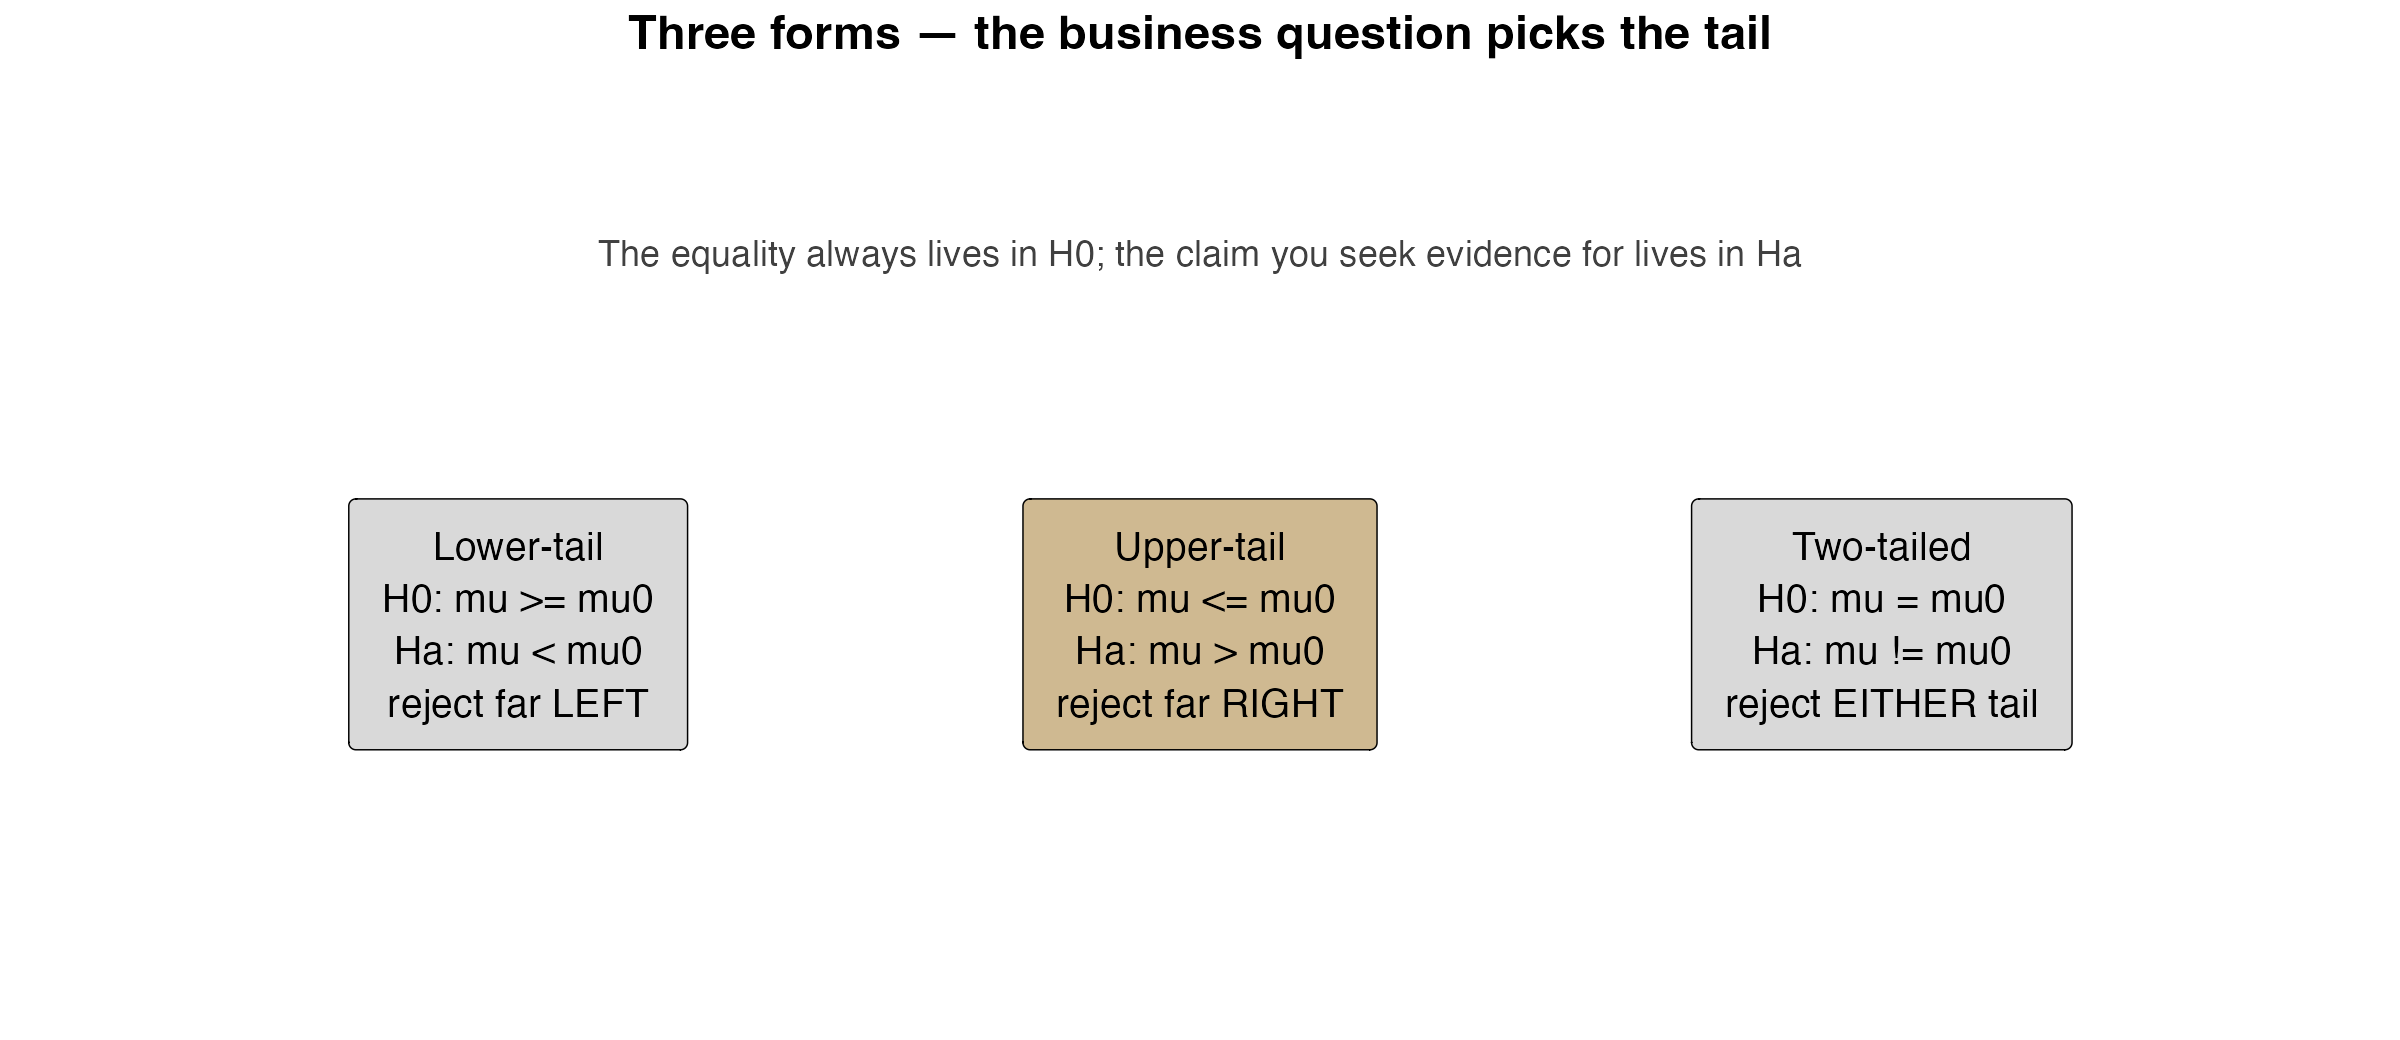
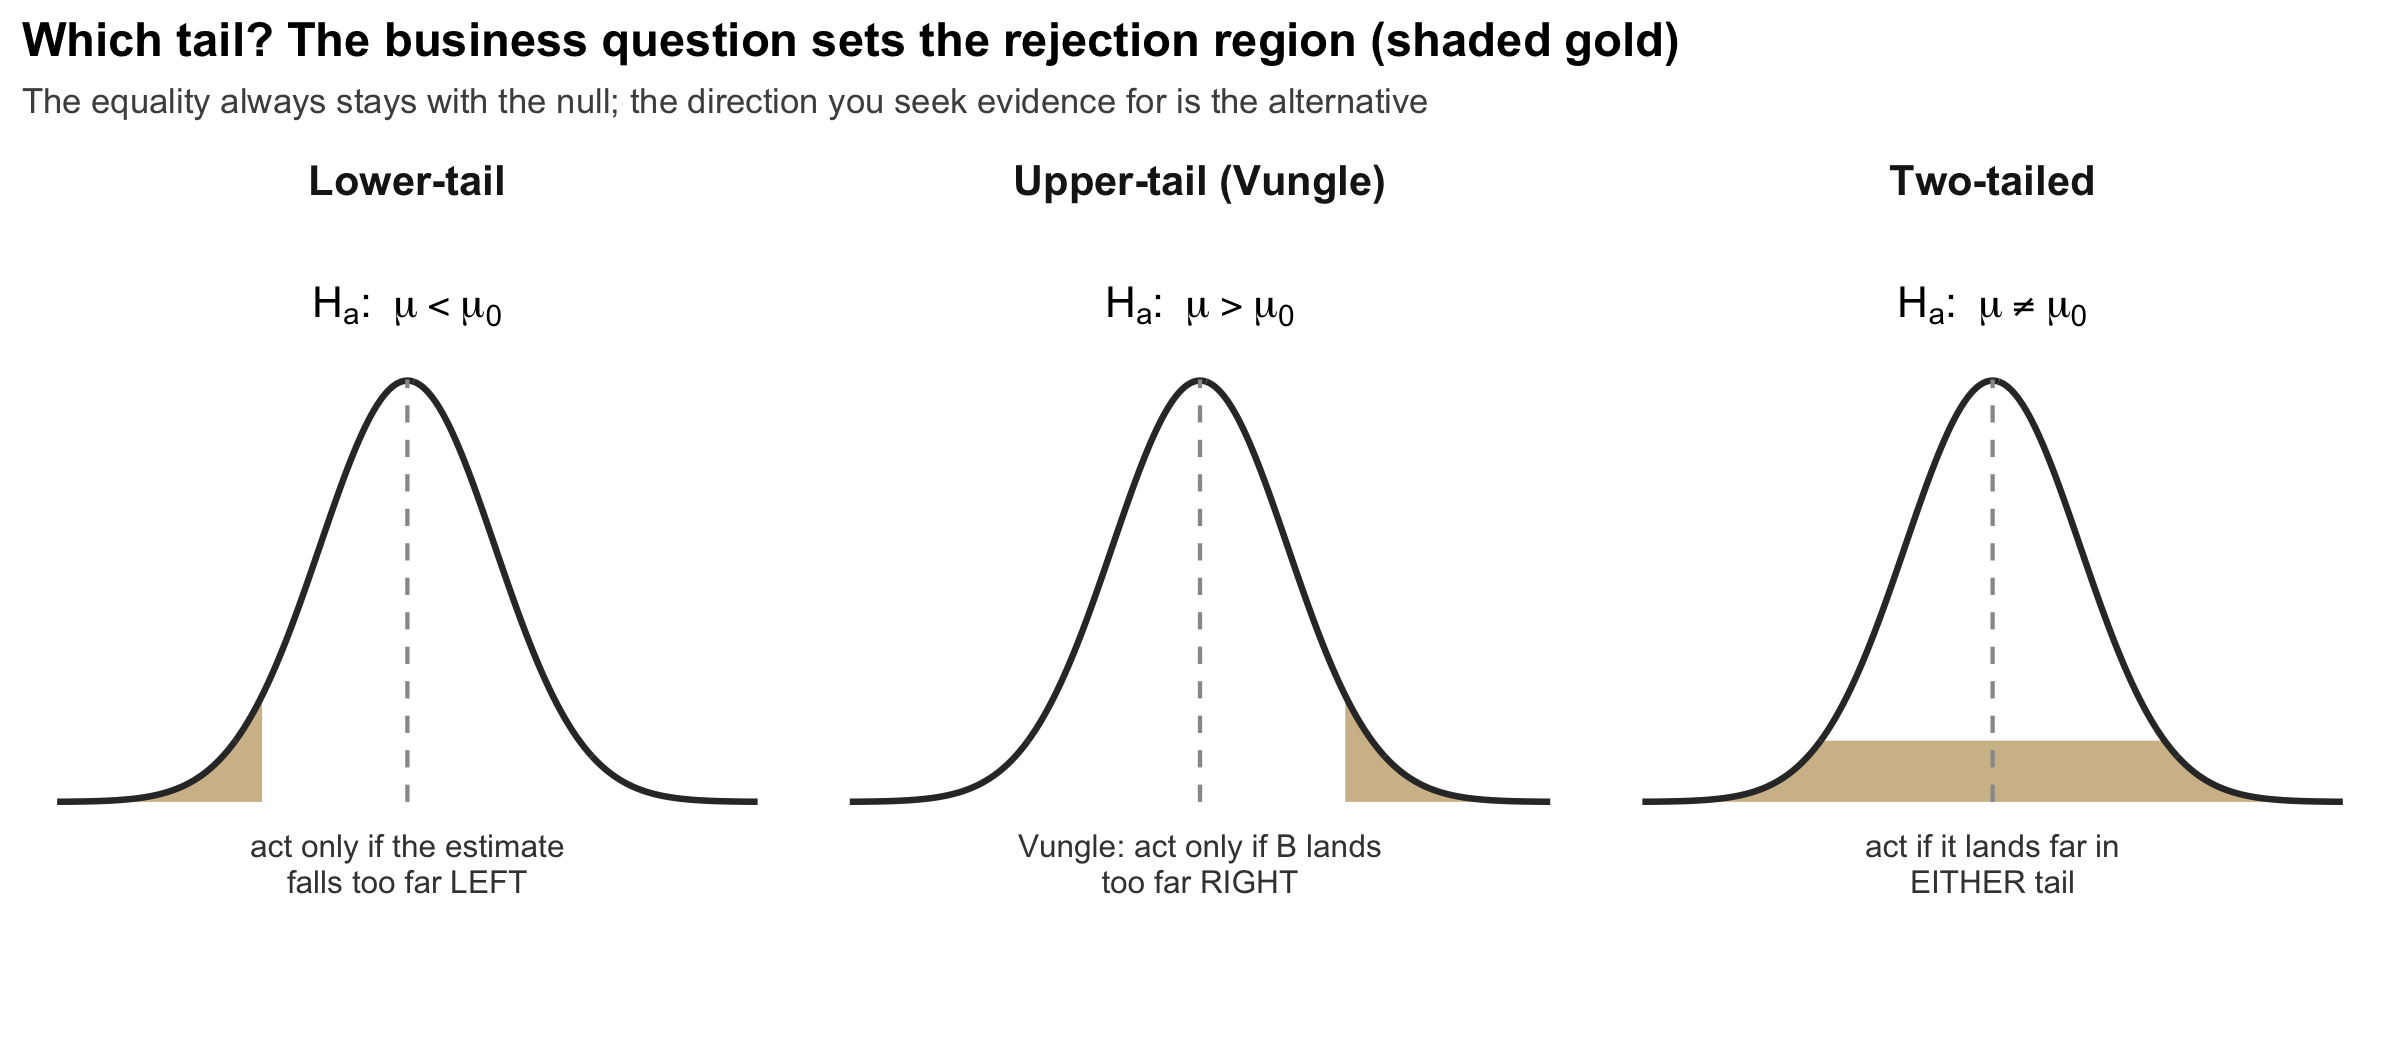
T08: redesign forms viz + add α/β two-worlds figure + drop textbook anchors for Vungle-only
- Slide 11 (Three Forms): replace the three text boxes with three shaded-tail
  sampling-distribution curves (lower / upper-Vungle / two-tailed) so students see
  which tail the business question selects; fix the em-dash title; SBE notation (Hₐ, μ₀, ≠).
- Slide 15 (You Control α; β Follows): add the two-worlds picture (null at the $3.30
  benchmark, alternative at B's observed $3.46, one cutoff; α=.05, β≈.19, power≈.81) in a
  two-column layout, and tighten the text around it.
- Remove both textbook anchor examples (Heathrow mean, Pine Creek proportion); replace each
  with a compact Vungle-only five-step roadmap slide and teach both tests directly on the
  spine case; retitle the two spine slides (drop "Now the Spine Case"). Single-case, symmetric.
- Drop the orphan Heathrow_t / PineCreek_z sheets from the published student workbook.

diff --git a/docs/lecture_slides/08_chapter_hypothesis_tests/08_chapter_hypothesis_tests.html b/docs/lecture_slides/08_chapter_hypothesis_tests/08_chapter_hypothesis_tests.html
@@ -327,13 +327,25 @@ H_0: \mu \leq 3.30 \qquad \text{vs.} \qquad H_a: \mu &gt; 3.30
 </section>
 <section id="you-control-alpha-beta-follows" class="slide level2 center">
 <h2>You Control <span class="math inline">\(\alpha\)</span>; <span class="math inline">\(\beta\)</span> Follows</h2>
-<p><br></p>
+<div class="columns">
+<div class="column" style="width:55%;">
+<div class="cell" data-layout-align="center">
+<div class="cell-output-display">
+<div class="quarto-figure quarto-figure-center">
+<figure>
+<p><img data-src="figs/alpha_beta_tradeoff_vungle.png" class="quarto-figure quarto-figure-center" style="width:100.0%"></p>
+</figure>
+</div>
+</div>
+</div>
+</div><div class="column" style="width:45%;">
 <ul>
-<li class="fragment"><p>The <strong>level of significance</strong> <span class="math inline">\(\alpha\)</span> = the probability of a <strong>Type I error</strong> you are willing to tolerate. You set it <strong>before</strong> seeing the data; usually <span class="math inline">\(\alpha = 0.05\)</span> (sometimes <span class="math inline">\(0.01\)</span> or <span class="math inline">\(0.10\)</span>).</p></li>
-<li class="fragment"><p><span class="math inline">\(\beta\)</span> = the probability of a <strong>Type II error</strong>. You do <strong>not</strong> set it directly; it follows from <span class="math inline">\(\alpha\)</span>, the sample size, and how far the truth is from <span class="math inline">\(H_0\)</span>.</p></li>
-<li class="fragment"><p><strong>The trade-off:</strong> for a fixed sample, lowering <span class="math inline">\(\alpha\)</span> (fewer false alarms) <strong>raises</strong> <span class="math inline">\(\beta\)</span> (more missed effects). The only way to shrink both is a <strong>larger sample</strong>.</p></li>
-<li class="fragment"><p><strong>Language rule:</strong> when the evidence is weak we say <em>“fail to reject <span class="math inline">\(H_0\)</span>,”</em> never <em>“accept <span class="math inline">\(H_0\)</span>.”</em> Absence of proof is not proof of absence; we just did not gather enough evidence to overturn the skeptic.</p></li>
+<li class="fragment"><p><span class="math inline">\(\alpha\)</span> = the <strong>Type I</strong> risk (a false “fund it”) you agree to tolerate. You <strong>set it before</strong> the data; usually <span class="math inline">\(0.05\)</span>.</p></li>
+<li class="fragment"><p><span class="math inline">\(\beta\)</span> = the <strong>Type II</strong> risk (miss a real winner). You do <strong>not</strong> set it: it follows from <span class="math inline">\(\alpha\)</span>, the sample size, and how far the truth sits from <span class="math inline">\(H_0\)</span>.</p></li>
+<li class="fragment"><p><strong>The trade-off:</strong> slide the cutoff right and <span class="math inline">\(\alpha\)</span> falls but <span class="math inline">\(\beta\)</span> climbs. At <span class="math inline">\(\alpha = 0.05\)</span> the picture leaves <span class="math inline">\(\beta \approx 0.19\)</span> (power <span class="math inline">\(\approx 0.81\)</span>); only a <strong>bigger sample</strong> shrinks both.</p></li>
+<li class="fragment"><p><strong>Language rule:</strong> weak evidence means <em>“fail to reject <span class="math inline">\(H_0\)</span>,”</em> never <em>“accept <span class="math inline">\(H_0\)</span>.”</em></p></li>
 </ul>
+</div></div>
 </section>
 <section id="why-the-asymmetry-matters-for-vungle" class="slide level2 center">
 <h2>Why the Asymmetry Matters for Vungle</h2>
@@ -375,7 +387,7 @@ H_0: \mu \leq 3.30 \qquad \text{vs.} \qquad H_a: \mu &gt; 3.30 \qquad \alpha = 0
 </div>
 <ul>
 <li class="fragment"><p><span class="math inline">\(\mu\)</span> = the <strong>true</strong> mean daily eRPM B would deliver across <em>all</em> future traffic; the 30 June days are our sample.</p></li>
-<li class="fragment"><p><strong>Today’s plan:</strong> demo the mechanics on a textbook airport-rating case, then a good analyst’s work on Vungle goes up for you to reproduce and stress-test.</p></li>
+<li class="fragment"><p><strong>Today’s plan:</strong> a good analyst runs the five-step test on B’s eRPM; you reproduce it, stress-test it, and make the funding call.</p></li>
 </ul>
 </section>
 <section id="how-every-class-runs" class="slide level2 center">
@@ -487,35 +499,22 @@ z = \frac{\bar{x} - \mu_0}{\sigma / \sqrt{n}}
 </div>
 </div>
 </section>
-<section id="anchor-example-heathrow-superior-service-rating" class="slide level2 center">
-<h2>Anchor Example: Heathrow Superior-Service Rating</h2>
-<p><br></p>
-<p>A travel magazine rates airports 0–10; an airport is labeled <strong>“superior service”</strong> only if its <strong>true mean</strong> rating exceeds <strong>7</strong>. A sample of <strong>60</strong> business travelers at London Heathrow gives <span class="math inline">\(\bar{x} = 7.25\)</span>, <span class="math inline">\(s = 1.052\)</span>.</p>
-<p><br></p>
-<ul>
-<li class="fragment">We want evidence that the mean <strong>exceeds 7</strong> <span class="math inline">\(\rightarrow\)</span> upper-tail, <span class="math inline">\(\sigma\)</span> unknown <span class="math inline">\(\rightarrow\)</span> one-sample <span class="math inline">\(t\)</span>.</li>
-</ul>
+<section id="the-five-step-test-on-bs-erpm" class="slide level2 center">
+<h2>The Five-Step Test, on B’s eRPM</h2>
+<p>We run <strong>one procedure</strong> every time. Here it is on B’s mean eRPM:</p>
+<ol type="1">
+<li class="fragment"><strong>Business context:</strong> fund B only if its true mean eRPM beats the $3.30 viability benchmark.</li>
+<li class="fragment"><strong>Hypotheses</strong> (upper-tail): <span class="math inline">\(H_0: \mu \leq 3.30\)</span> vs.&nbsp;<span class="math inline">\(H_a: \mu &gt; 3.30\)</span>, at <span class="math inline">\(\alpha = 0.05\)</span>.</li>
+<li class="fragment"><strong>Test statistic:</strong> <span class="math inline">\(\sigma\)</span> is unknown, so estimate it with <span class="math inline">\(s\)</span> and use a one-sample <span class="math inline">\(t\)</span>, <span class="math inline">\(df = n - 1\)</span>.</li>
+<li class="fragment"><strong>Decision:</strong> compare <span class="math inline">\(t\)</span> to its critical value, or the <span class="math inline">\(p\)</span>-value to <span class="math inline">\(\alpha\)</span>: two roads, one verdict.</li>
+<li class="fragment"><strong>Manager’s translation:</strong> turn the verdict back into the funding call.</li>
+</ol>
 <div class="fragment">
-<p><span class="math display">\[
-H_0: \mu \leq 7 \qquad H_a: \mu &gt; 7 \qquad \alpha = 0.05
-\]</span></p>
+<p>The next slides run these five steps on June’s 30 days, in Excel.</p>
 </div>
 </section>
-<section id="heathrow-the-five-steps" class="slide level2 center">
-<h2>Heathrow: the Five Steps</h2>
-<div class="r-fit-text">
-<p><strong>1. Business context.</strong> Classify the airport; only a true mean above 7 earns the “superior service” badge.</p>
-<p><strong>2. Hypotheses</strong> (upper-tail): <span class="math inline">\(H_0: \mu \leq 7\)</span> vs.&nbsp;<span class="math inline">\(H_a: \mu &gt; 7\)</span>, <span class="math inline">\(\alpha = 0.05\)</span>.</p>
-<p><strong>3. Test statistic.</strong></p>
-<p><span class="math display">\[
-t = \frac{\bar{x} - \mu_0}{s/\sqrt{n}} = \frac{7.25 - 7}{1.052/\sqrt{60}} = \frac{0.25}{0.1358} = 1.84, \qquad df = 59
-\]</span></p>
-<p><strong>4. Decision.</strong> Critical value: <span class="math inline">\(t_{0.05,\,59} = 1.671\)</span>; since <span class="math inline">\(1.84 \geq 1.671\)</span> <span class="math inline">\(\rightarrow\)</span> <strong>reject <span class="math inline">\(H_0\)</span></strong>. Equivalently, <span class="math inline">\(p\text{-value} = 0.035 \leq 0.05\)</span> <span class="math inline">\(\rightarrow\)</span> <strong>reject <span class="math inline">\(H_0\)</span></strong>.</p>
-<p><strong>5. Manager’s Translation.</strong> <em>The data give us at least 95% confidence that Heathrow’s mean traveler rating tops 7, so classify it “superior service.” The evidence is strong but not overwhelming (<span class="math inline">\(p \approx 0.035\)</span>).</em></p>
-</div>
-</section>
-<section id="now-the-spine-case-bs-erpm-in-numbers" class="slide level2 center">
-<h2>Now the Spine Case: B’s eRPM in Numbers</h2>
+<section id="the-data-bs-erpm-against-the-benchmark" class="slide level2 center">
+<h2>The Data: B’s eRPM Against the Benchmark</h2>
 
 <img data-src="figs/erpm_B_vs_benchmark.png" class="quarto-figure quarto-figure-center r-stretch" style="width:80.0%"><ul>
 <li>23 of 30 days clear the $3.30 line, and the sample mean sits well above it, but a noisy 30-day sample <em>could</em> land here even if the true mean were exactly $3.30. The test settles it.</li>
@@ -821,40 +820,22 @@ z = \frac{\bar{p} - p_0}{\sigma_{\bar{p}}}
 <li class="fragment"><p>For a two-tailed test, <strong>double</strong> the single-tail area to get the <span class="math inline">\(p\)</span>-value, and split <span class="math inline">\(\alpha\)</span> into <span class="math inline">\(\alpha/2\)</span> per tail for the two critical values.</p></li>
 </ul>
 </section>
-<section id="anchor-example-pine-creek-golf-course" class="slide level2 center">
-<h2>Anchor Example: Pine Creek Golf Course</h2>
-<p><br></p>
-<p>Last year <strong>20%</strong> of Pine Creek’s players were women. After a promotion to attract women golfers, the manager wants evidence the proportion <strong>increased</strong>. A sample of <strong>400</strong> players includes <strong>100</strong> women (<span class="math inline">\(\bar{p} = 0.25\)</span>), <span class="math inline">\(\alpha = 0.05\)</span>.</p>
+<section id="the-five-step-test-on-bs-conversion" class="slide level2 center">
+<h2>The Five-Step Test, on B’s Conversion</h2>
+<p>Same five steps as the mean test; only the standard error and the reference curve change:</p>
+<ol type="1">
+<li class="fragment"><strong>Business context:</strong> keep B only if its true conversion clears the 0.35% viability target.</li>
+<li class="fragment"><strong>Hypotheses</strong> (upper-tail): <span class="math inline">\(H_0: p \leq 0.0035\)</span> vs.&nbsp;<span class="math inline">\(H_a: p &gt; 0.0035\)</span>, at <span class="math inline">\(\alpha = 0.05\)</span>.</li>
+<li class="fragment"><strong>Test statistic:</strong> a <span class="math inline">\(z\)</span>, with the standard error built <strong>under <span class="math inline">\(H_0\)</span></strong> from <span class="math inline">\(p_0\)</span>, not <span class="math inline">\(\bar p\)</span>.</li>
+<li class="fragment"><strong>Decision:</strong> compare <span class="math inline">\(z\)</span> to its critical value, or the <span class="math inline">\(p\)</span>-value to <span class="math inline">\(\alpha\)</span>.</li>
+<li class="fragment"><strong>Manager’s translation:</strong> turn the verdict back into the keep-or-kill call.</li>
+</ol>
 <div class="fragment">
-<p><span class="math display">\[
-H_0: p \leq 0.20 \qquad H_a: p &gt; 0.20 \qquad \text{(upper-tail)}
-\]</span></p>
-</div>
-<div class="fragment">
-<p><span class="math display">\[
-\sigma_{\bar{p}} = \sqrt{\frac{0.20(0.80)}{400}} = 0.02, \qquad
-z = \frac{0.25 - 0.20}{0.02} = 2.50
-\]</span></p>
+<p>Now the numbers: 15.8 million impressions, a rate a hair above target.</p>
 </div>
 </section>
-<section id="pine-creek-decision" class="slide level2 center">
-<h2>Pine Creek: Decision</h2>
-<p><br></p>
-<ul>
-<li class="fragment"><p><strong>Critical value:</strong> <span class="math inline">\(z_{0.05} = 1.645\)</span>. Since <span class="math inline">\(z = 2.50 \geq 1.645\)</span> <span class="math inline">\(\rightarrow\)</span> <strong>reject <span class="math inline">\(H_0\)</span></strong>.</p></li>
-<li class="fragment"><p><strong><span class="math inline">\(p\)</span>-value:</strong> <span class="math inline">\(1 - \text{NORM.S.DIST}(2.50) = 1 - 0.9938 = 0.0062 \leq 0.05\)</span> <span class="math inline">\(\rightarrow\)</span> <strong>reject <span class="math inline">\(H_0\)</span></strong>.</p></li>
-</ul>
-<div class="fragment">
-<blockquote>
-<p><em>Strong, in fact overwhelming, evidence that the promotion raised the proportion of women players above 20%.</em></p>
-</blockquote>
-</div>
-<ul>
-<li class="fragment">Notice the parallel to the airport case: same five steps, same two roads; only the standard error formula and the reference distribution (normal vs.&nbsp;<span class="math inline">\(t\)</span>) changed.</li>
-</ul>
-</section>
-<section id="now-the-spine-case-bs-conversion-in-numbers" class="slide level2 center">
-<h2>Now the Spine Case: B’s Conversion in Numbers</h2>
+<section id="bs-conversion-in-numbers" class="slide level2 center">
+<h2>B’s Conversion in Numbers</h2>
 <p><br></p>
 <ul>
 <li class="fragment">Plugging B’s June totals into the proportion test, with <span class="math inline">\(p_0 = 0.0035\)</span>:</li>